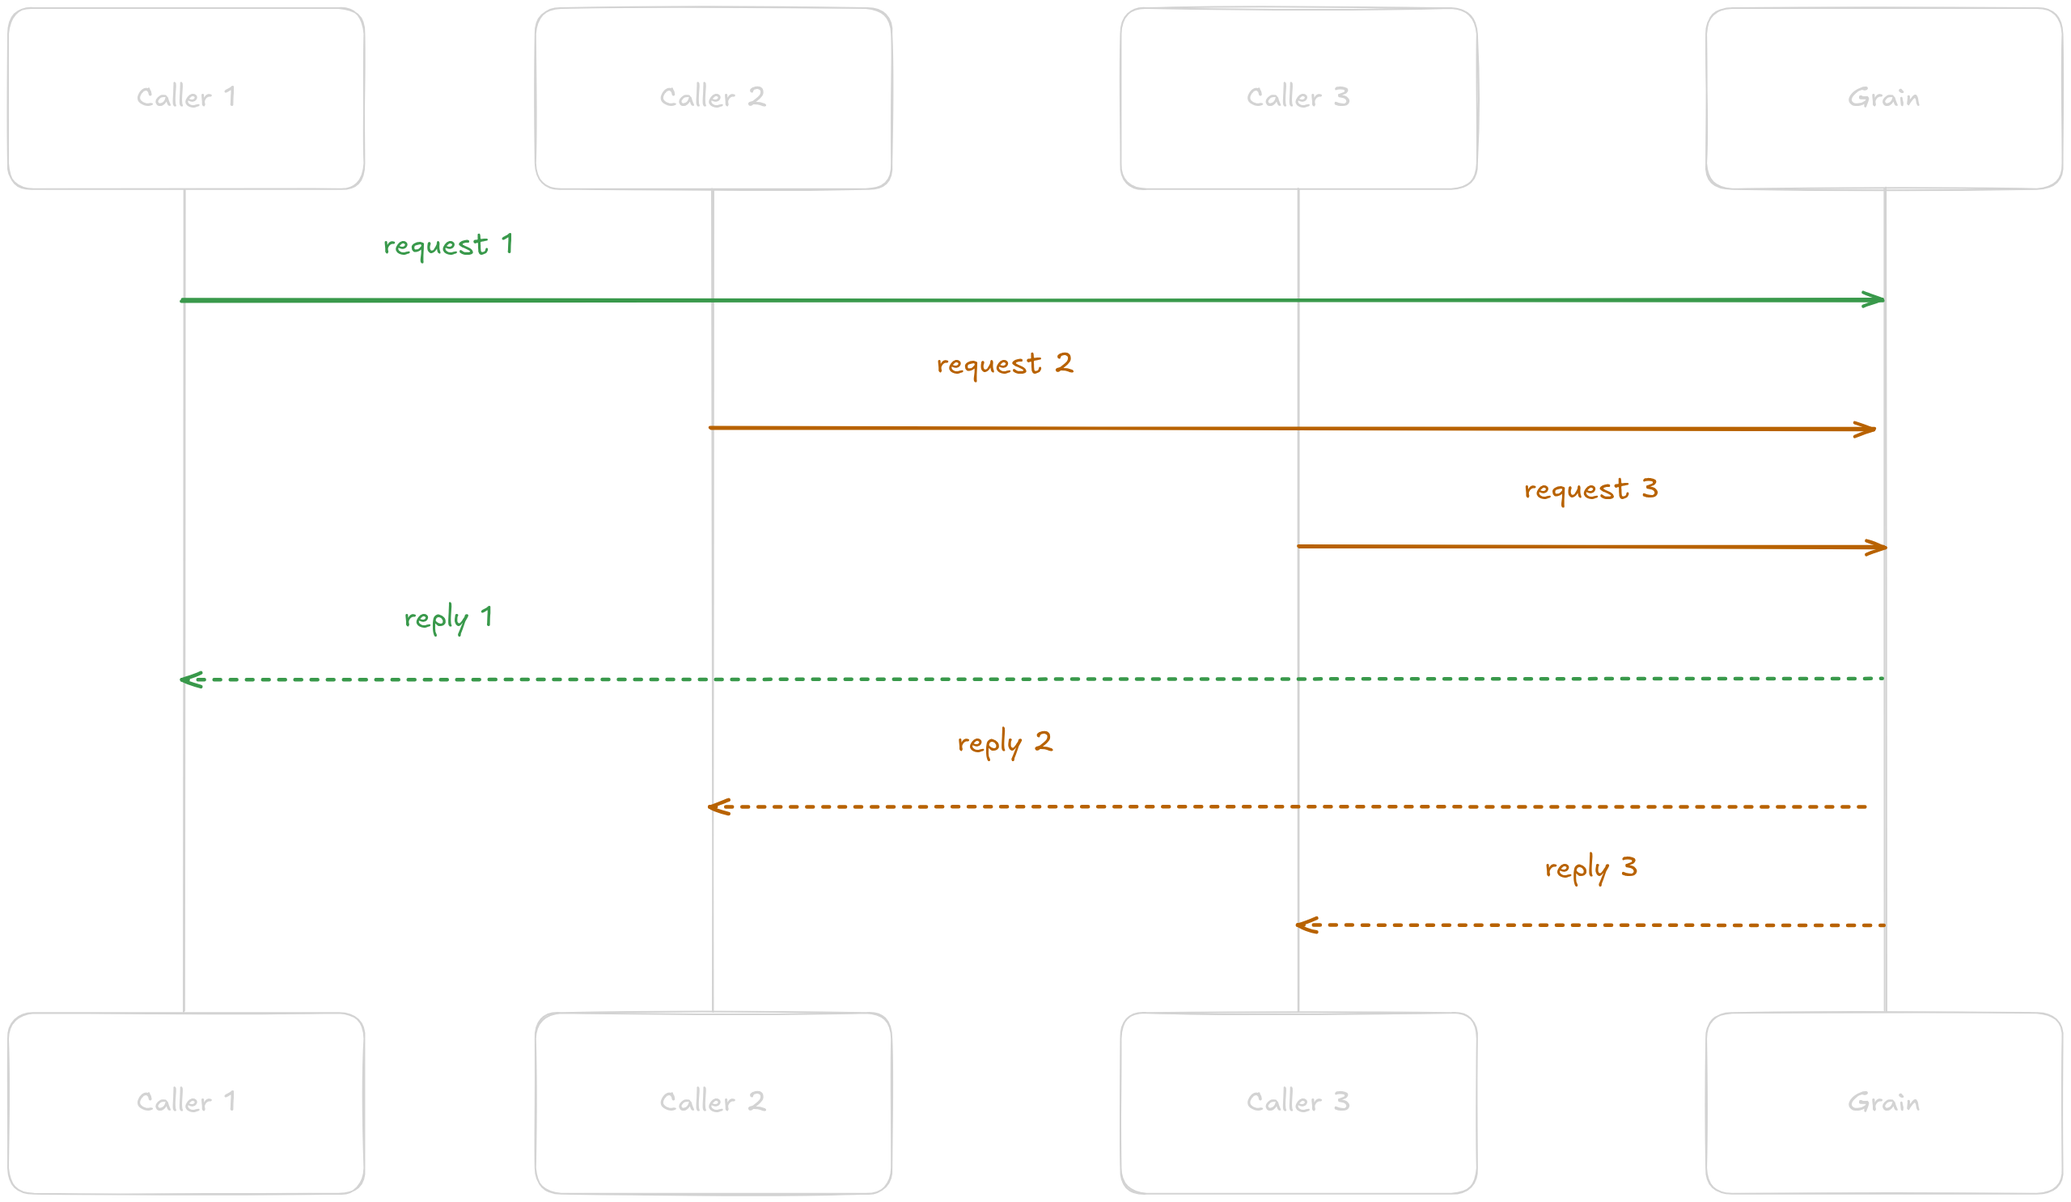
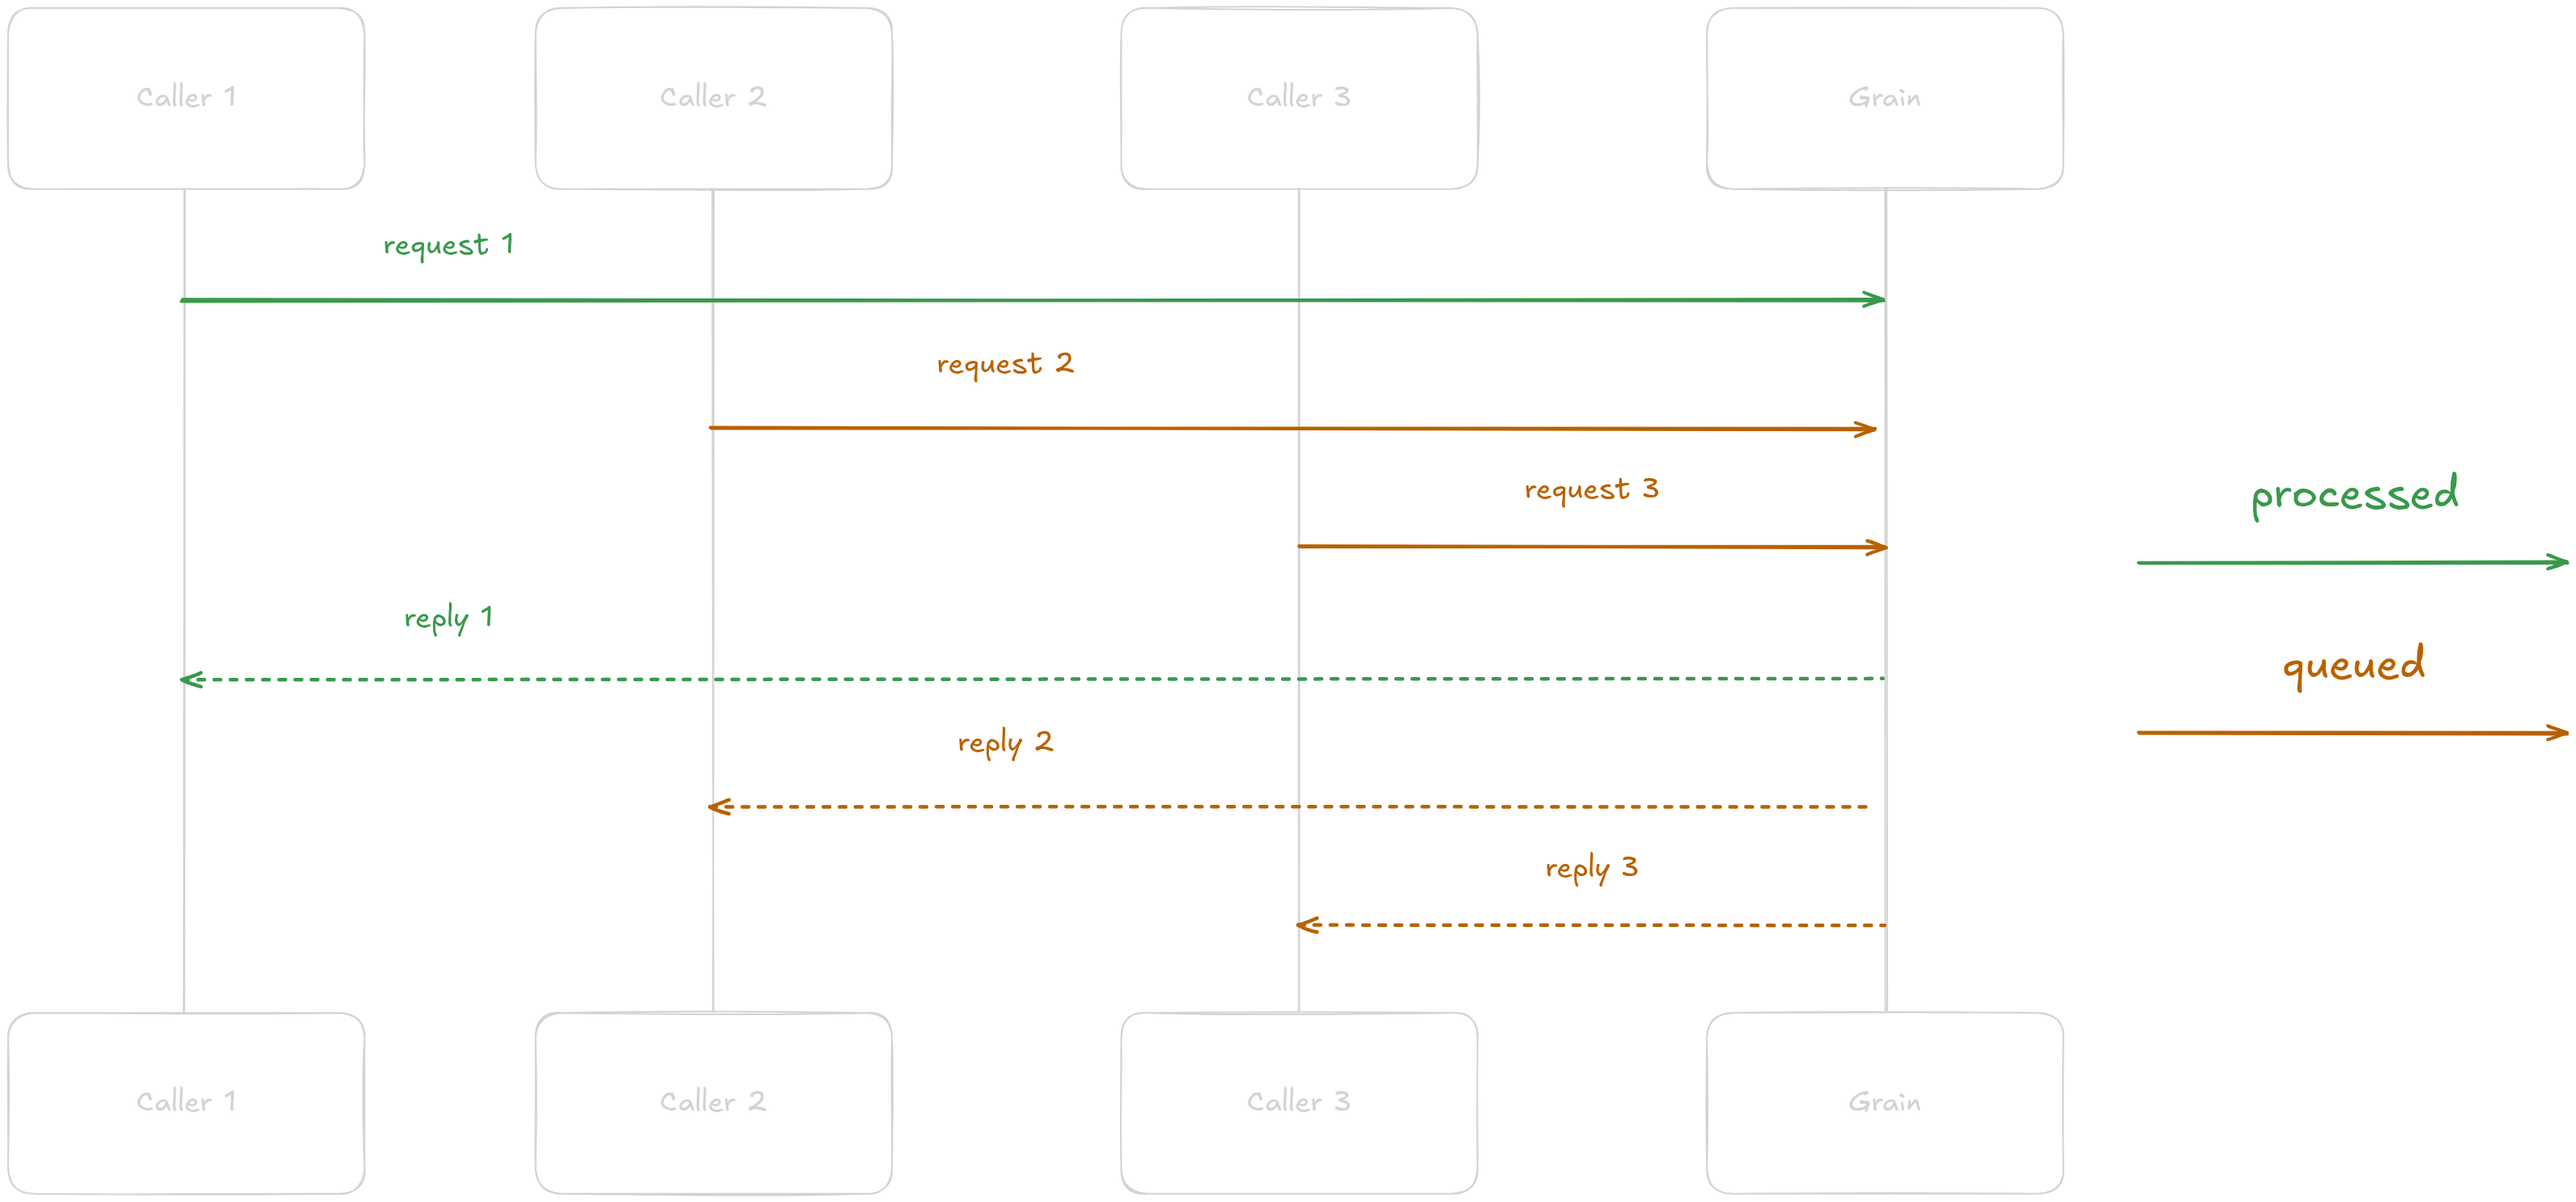
docs(slides): add the sad penguin to the turn-based slide

diff --git a/docs/net_stammtisch_linz/slides/src/custom.css b/docs/net_stammtisch_linz/slides/src/custom.css
@@ -74,3 +74,5 @@
 .reveal .deck-refs a { color: var(--r-link-color); }
 .reveal .deck-refs div + div { margin-top: 0.2em; }
 .reveal img.diagram { display: block; margin: 0 auto; max-height: 470px; width: auto; max-width: 100%; }
+/* A small mascot in the bottom right corner of a slide; fixed inside the scaled slide area, above the slide number. */
+.reveal img.pengu { position: fixed; right: 30px; bottom: 62px; width: 140px; height: auto; max-height: none; margin: 0; }

diff --git a/docs/net_stammtisch_linz/slides/slides.md b/docs/net_stammtisch_linz/slides/slides.md
@@ -256,6 +256,8 @@ Note:
 
 <p class="small">One request at a time per grain: no locks, no data races inside a grain</p>
 
+<img class="pengu" src="/images/sad_pengu.gif" alt="Sad penguin waiting in the queue">
+
 Note:
 - Speaker: Lucas | Raffi
 
